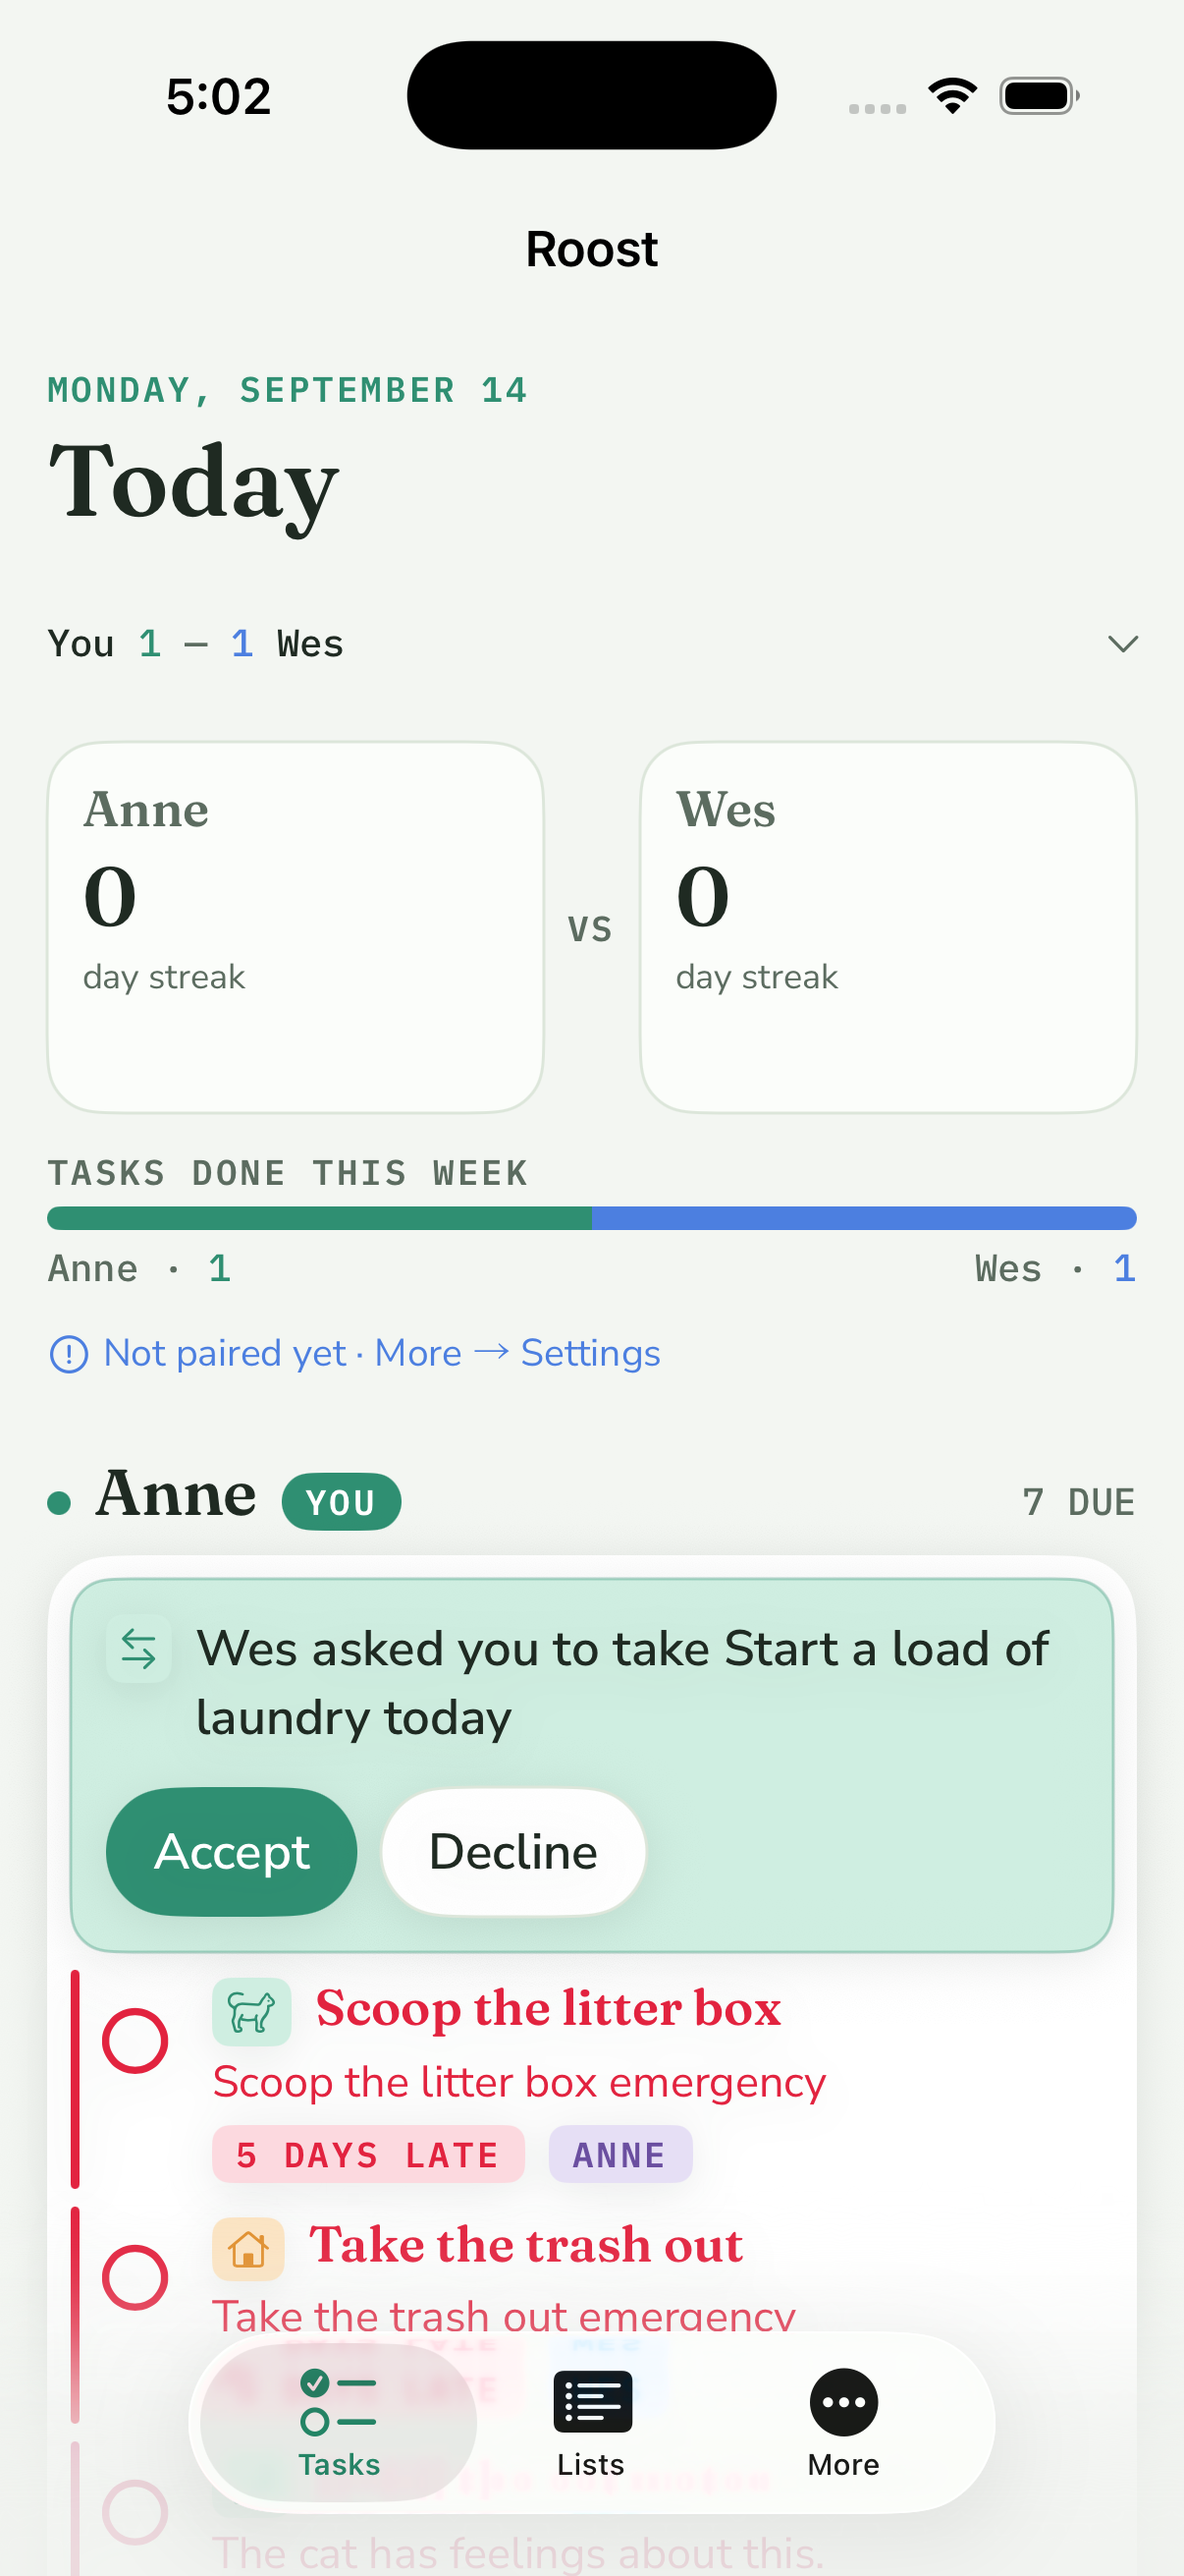
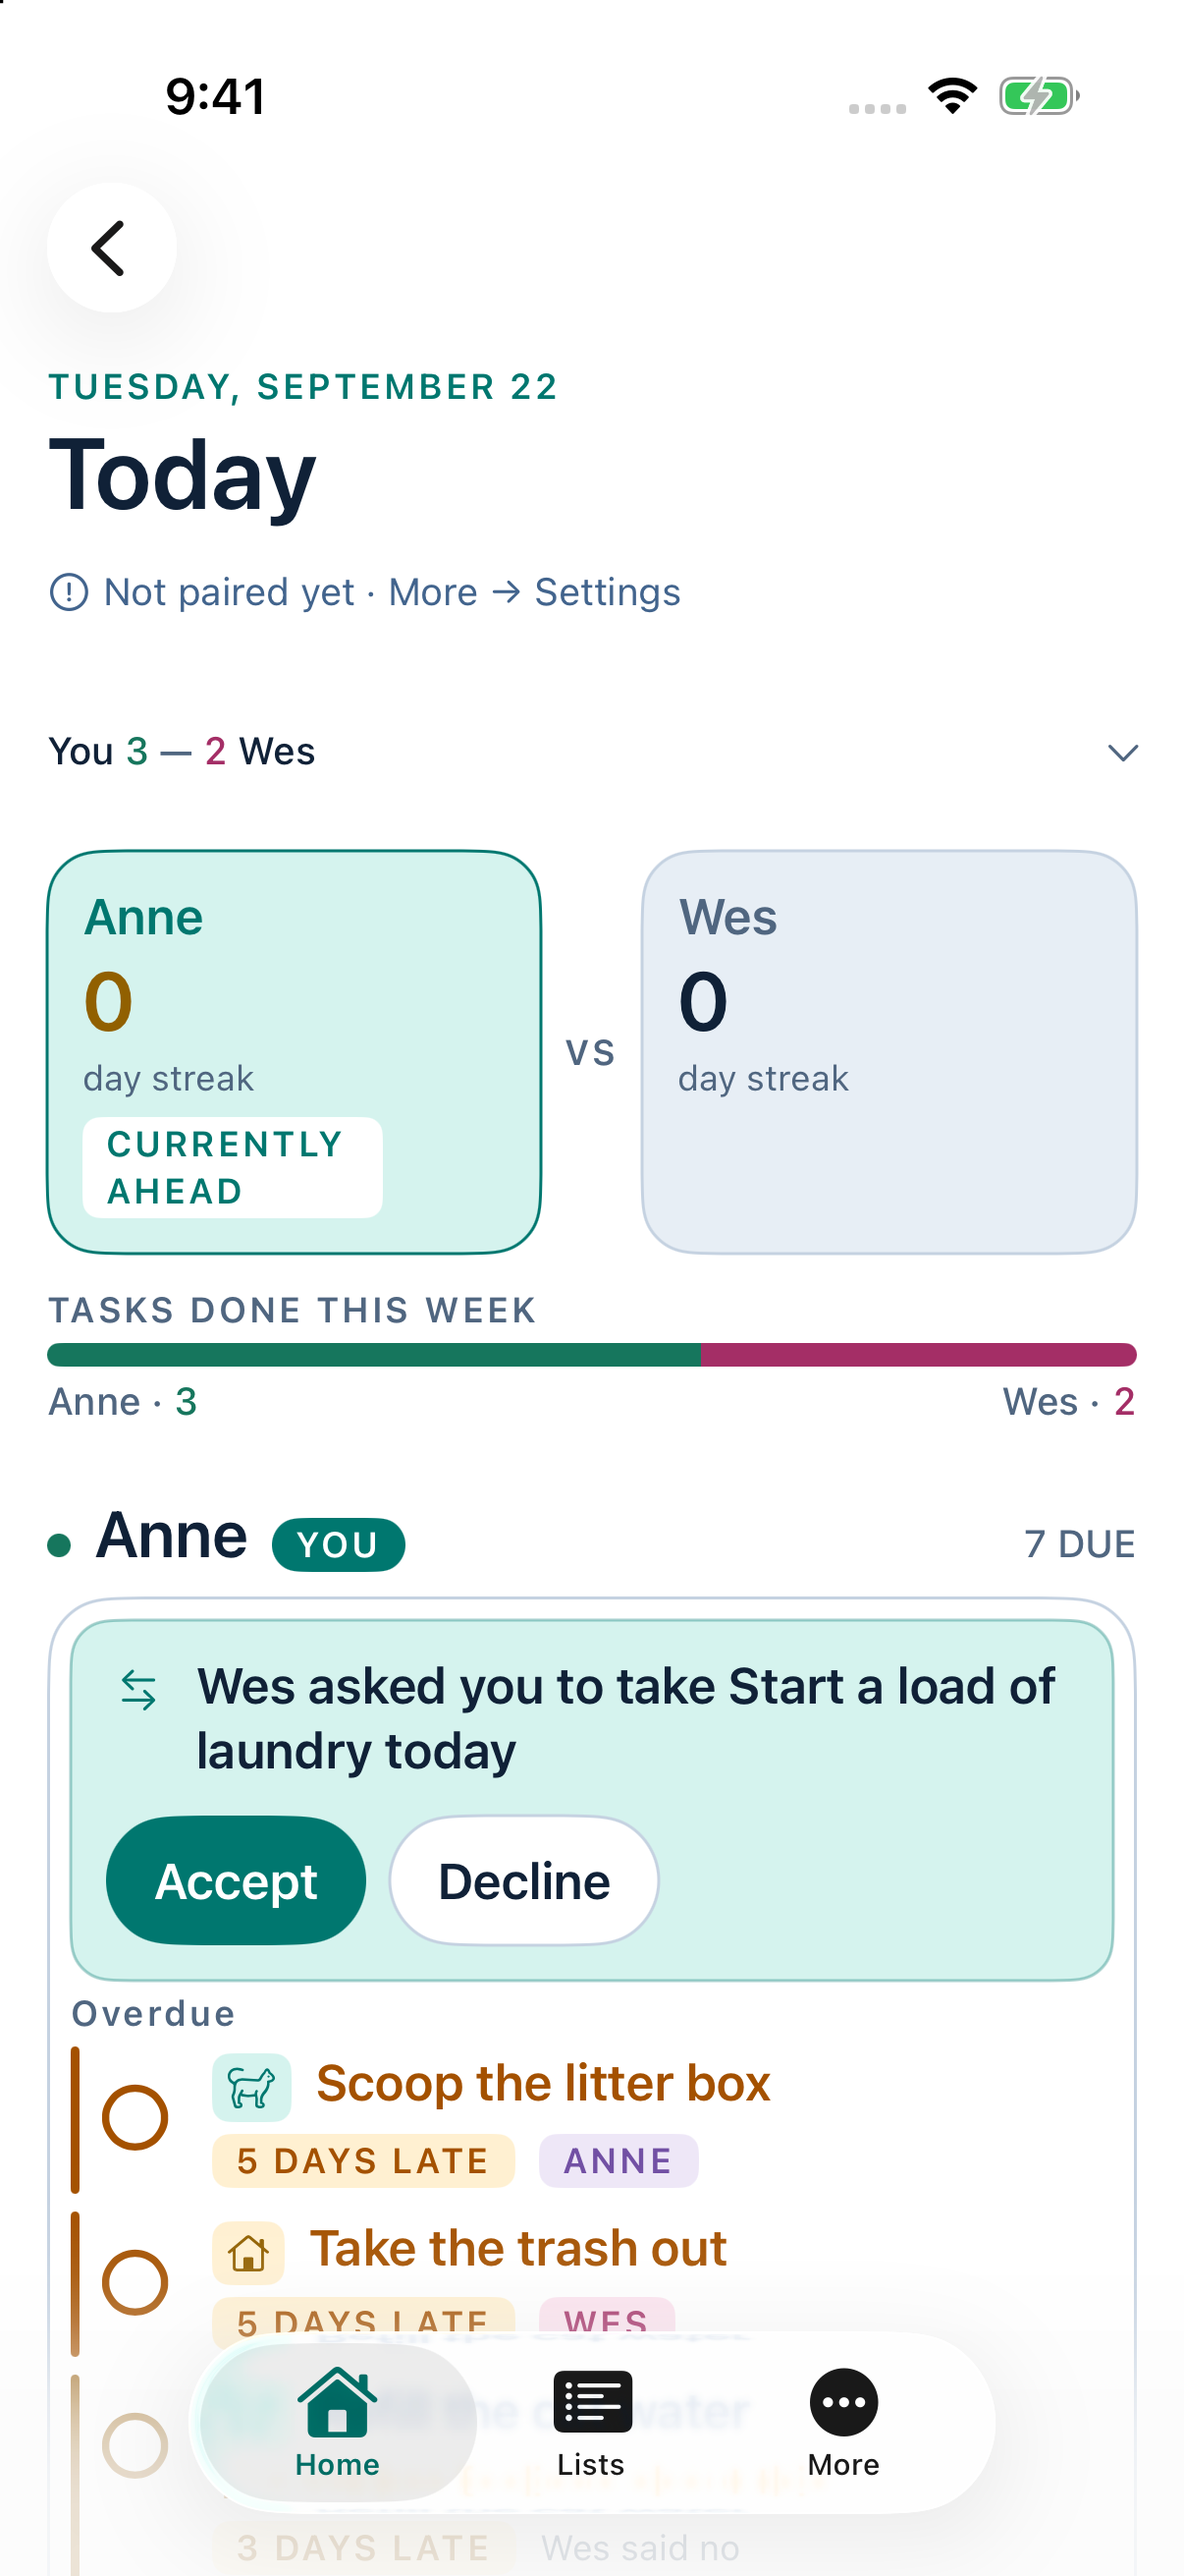
Recapture Home and the chore board.
The Home photos still showed the older two-column card, and the Tasks photos still showed the September Today board with a Tasks tab. Both are the current screens: Home, and More → Chore board, including dark, the open streak, and the largest text size.

diff --git a/Roost/README.md b/Roost/README.md
@@ -29,21 +29,19 @@ These captures use the offline UI-test household, not live phone data.
 | --- | --- | --- |
 | ![Home](docs/home.png) | ![Dark Home](docs/home-dark.png) | ![Home at the largest text size](docs/home-ax.png) |
 
-The screenshots below also document earlier layouts.
-
-| Tasks | Lists | Wishlist | More |
+| Chore board | Lists | Wishlist | More |
 | --- | --- | --- | --- |
-| ![Tasks tab](docs/tasks.png) | ![Lists tab](docs/lists.png) | ![Wishlist page](docs/wishlist.png) | ![More tab](docs/more.png) |
-| ![Tasks tab in dark mode](docs/tasks-dark.png) | ![Lists tab in dark mode](docs/lists-dark.png) | ![Wishlist page in dark mode](docs/wishlist-dark.png) | |
+| ![Chore board](docs/tasks.png) | ![Lists tab](docs/lists.png) | ![Wishlist page](docs/wishlist.png) | ![More tab](docs/more.png) |
+| ![Chore board in dark mode](docs/tasks-dark.png) | ![Lists tab in dark mode](docs/lists-dark.png) | ![Wishlist page in dark mode](docs/wishlist-dark.png) | |
 
 | Shopping | Meals | Projects |
 | --- | --- | --- |
 | ![Shopping page](docs/shopping.png) | ![Meals page](docs/meals.png) | ![Projects page](docs/projects.png) |
 | ![Shopping page in dark mode](docs/shopping-dark.png) | ![Meals page in dark mode](docs/meals-dark.png) | ![Projects page in dark mode](docs/projects-dark.png) |
 
-| Kitchen mode | Tasks, largest accessibility size |
+| Kitchen mode | Chore board, largest text |
 | --- | --- |
-| ![Kitchen mode](docs/kitchen.png) | ![Tasks tab at accessibility size 5](docs/tasks-ax.png) |
+| ![Kitchen mode](docs/kitchen.png) | ![Chore board at the largest text size](docs/tasks-ax.png) |
 
 | First run | The code | A code that didn't work | Settings |
 | --- | --- | --- | --- |
@@ -63,13 +61,7 @@ The screenshots below also document earlier layouts.
 
 One file per screen state, replaced in place rather than kept per ticket.
 
-The Tasks screenshots are one phone paired as Anne against a local server seeded with the week's history (the household started that Monday), so
-the whole escalation ladder is on screen at once: 5 days late in the danger role, 3 days late in the warning
-role, two rows 1 day late in the notice role, then the rows that are simply due today — loudest first, so the
-colour only gets calmer going down the card. Wes's own column, its rows, and the celebration are below the fold.
-`tasks-ax.png` is the same screen at the largest accessibility text size, where the two streak cards stack
-instead of sitting side by side; further down, the person header stacks name / YOU / count and the week tally
-goes one line per person.
+The chore board shots are More → Chore board on the paired UI-test household. The streak line is collapsed except in `tasks-streak.png` and `tasks-streak-dark.png`, where the two cards sit side by side. `tasks-ax.png` is that board at the largest accessibility text size: the date wraps, and Anne's header stacks the name, YOU, and the count.
 
 Kitchen mode is the `paired` UI-test fixture (`-roostUITestState paired`), so it is the one screenshot here
 anybody can reproduce with a single command: both alert-stage chores in the shared banner, then each person's
@@ -192,11 +184,11 @@ Roost/
   docs/pairing-error.png      simulator screenshot, a code the server answered 404 to
   docs/settings.png           simulator screenshot, Settings while paired against a local server (the device line and date are the server's)
   docs/settings-dark.png      simulator screenshot, the same screen in dark mode
-  docs/tasks.png              simulator screenshot, Tasks tab (paired as Anne, collapsed streak line, edge bars, two-slot meta)
+  docs/tasks.png              simulator screenshot, chore board from More (paired as Anne, streak line collapsed)
   docs/tasks-dark.png         the same screen in dark mode
   docs/tasks-streak.png       the same screen with the streak card expanded
   docs/tasks-streak-dark.png  the expanded streak card in dark mode
-  docs/tasks-ax.png           the same screen at the largest accessibility text size
+  docs/tasks-ax.png           the chore board at the largest accessibility text size
   docs/lists.png              simulator screenshot, Lists tab on Shopping; docs/lists-dark.png in dark mode. shopping.png is the same screen.
   docs/wishlist.png           simulator screenshot, Wishlist page; docs/wishlist-dark.png in dark mode
   docs/more.png               simulator screenshot, More tab
